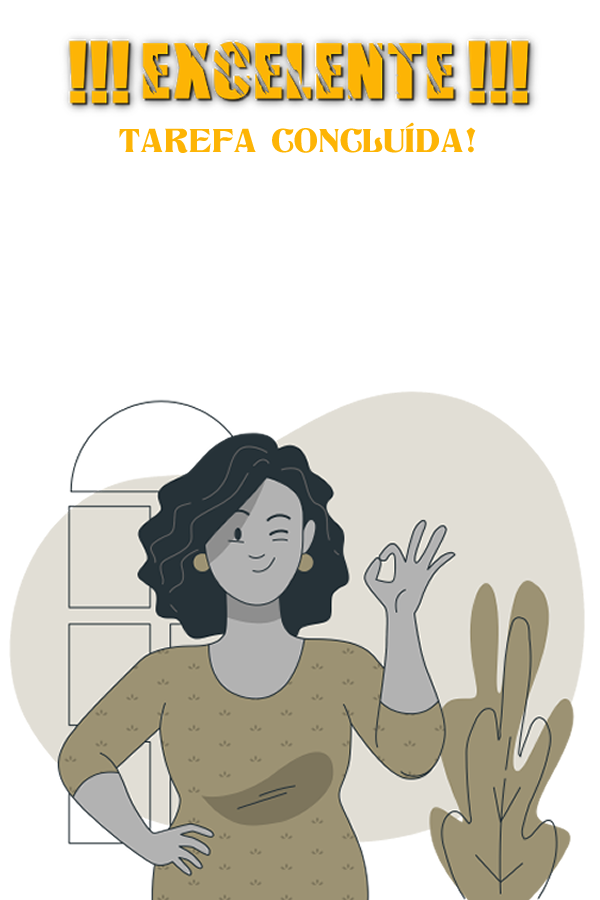
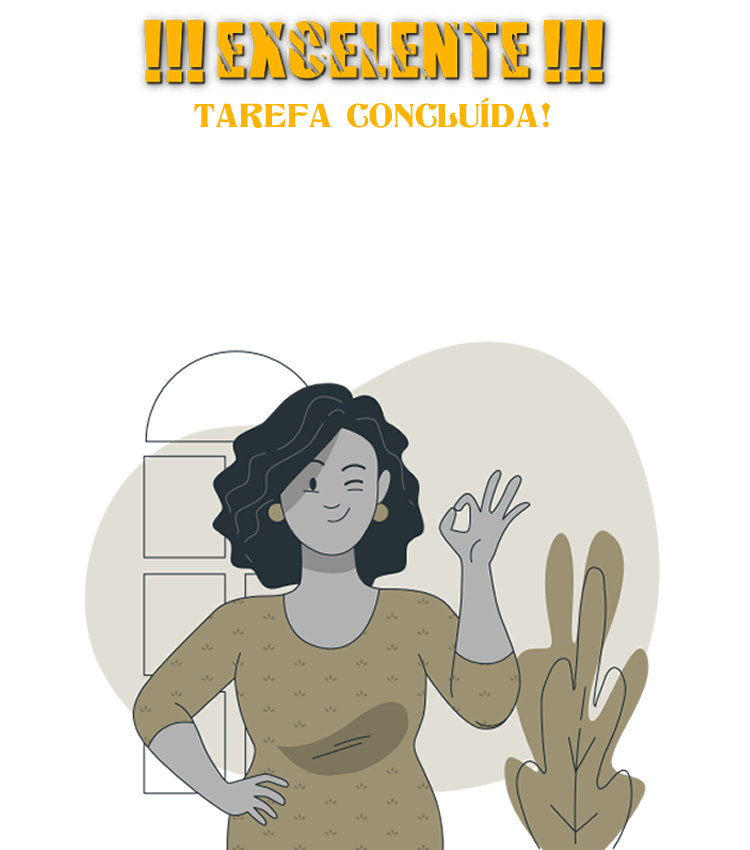
Ajustes na mensagem final

Changed region(s): [[0.0, 0.3976, 0.99, 1.0], [0.09, 0.0, 0.9, 0.1835], [0.21, 0.3976, 0.36, 0.4588]]

diff --git a/styleVT.css b/styleVT.css
@@ -336,15 +336,11 @@ h5 {
 #mensagem-final {
     display: none;
     position: fixed;
-    top: 0;
-    left: 0;
-    right: 0;
-    margin: auto;
     z-index: 10;
     background-color: #e0c282;
-    max-width: 600px;
-    min-height: 80vh;
-    grid-template-rows: 18vh 9vh 9vh 64vh;
+    width: 750px;
+    height: 850px;
+    grid-template-rows: 15vh 9vh 9vh auto;
     grid-template-columns: 1fr 1fr;
 }
 
